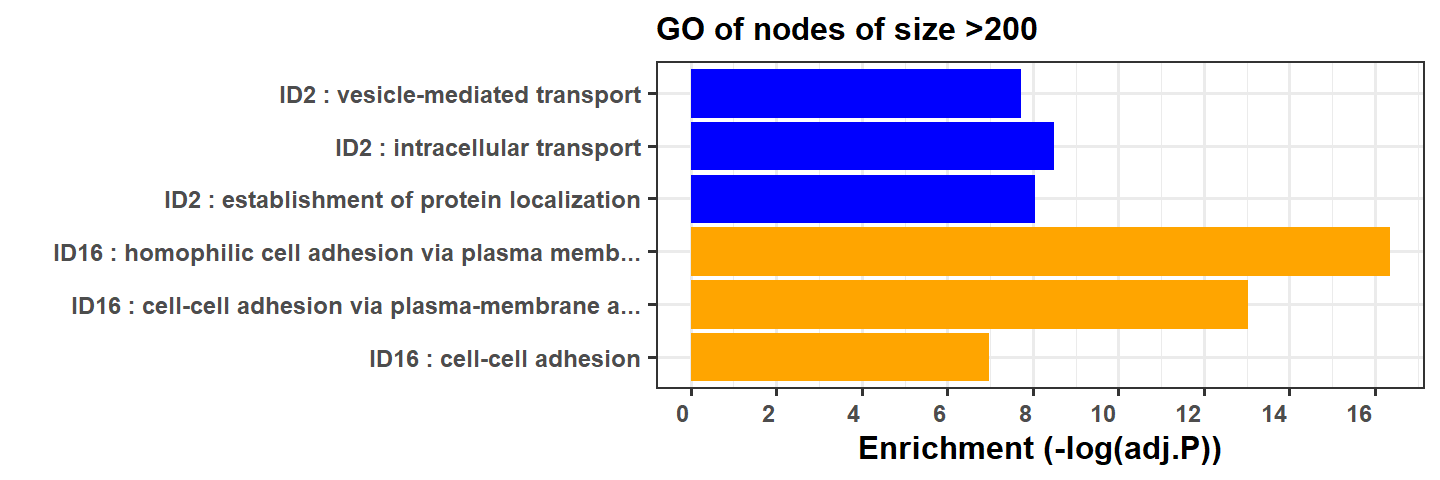
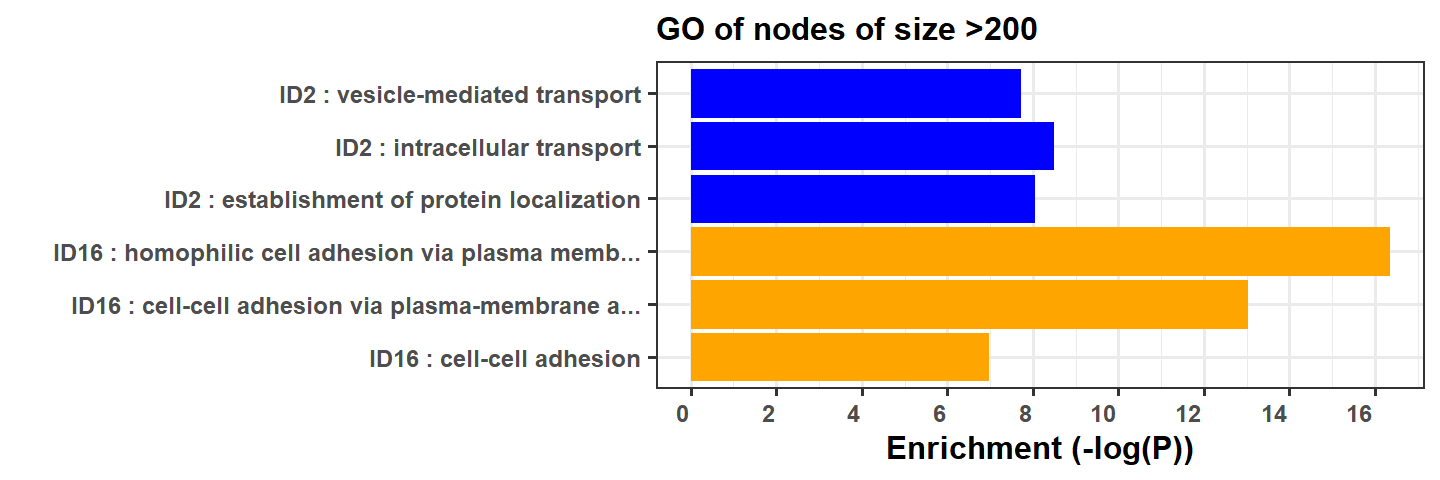
Commit 25/03/22

Changed region(s): [[0.5938, 0.9062, 0.875, 0.9688]]

diff --git a/README.md b/README.md
@@ -137,7 +137,7 @@ gene_groups=deltaTE_gene_groups(counts=counts,coldata=coldata,batch=0)
 Let’s have a look at the gene\_groups file from the example data. It
 consists in 2 columns containing the “geneID” and the “Gene\_group” for
 all the DE genes. This is as an example on fibroblasts stimulated by
-TGFB, if you start with your own gene groups, go to next code line.
+TGFB, when you start with your own gene groups, go to next code line.
 Ideally, the gene groups are obtained from deltaTE analysis but any
 method to find gene groups can also be run.
 
@@ -153,10 +153,10 @@ head(gene_groups)
 #> 6: ENSG00000116649 forwarded_up
 ```
 
-You can input your own gene groups by using the function
-load\_gene\_groups() and giving the file location of your gene group
-file as input. Each gene group must contain “up” or “down” in the name
-or you won’t be able to plot the network and gene ontology.
+To input your own gene groups, use the function load\_gene\_groups() and
+give the file location of your gene group file as input. Each gene group
+must contain “up” or “down” in the name or you won’t be able to plot the
+network and gene ontology.
 
 ``` r
 gene_groups=load_gene_groups(gene_groups_file = "path/to/gene_groups_file.txt")
@@ -233,7 +233,7 @@ head(tpm_ribo[,1:4])
 #> ENSG00000187961  2.228106  3.7949139  3.59028074  3.0119944
 ```
 
-To load your own data use
+To load your own data use:
 
 ``` r
 # If you want to input your own data
@@ -256,8 +256,8 @@ the analysis such as p-value and z-score.
 
 ``` r
 # The CLIPreg function requires a few minutes to run, save the data after running it to be sure not to lose it
-res_Postar=CLIPreg(RBP_data=RBP_POSTAR,gene_groups=gene_groups)
-res_Encode=CLIPreg(RBP_data=RBP_ENCODE,gene_groups=gene_groups)
+res_Postar=CLIPreg(Regulator_data=RBP_POSTAR,gene_groups=gene_groups)
+res_Encode=CLIPreg(Regulator_data=RBP_ENCODE,gene_groups=gene_groups)
 
 save(res_Encode,file="Res_RBP_Encode.RData")
 save(res_Postar,file="Res_RBP_Postar.RData")
@@ -327,7 +327,7 @@ head(rbp_lfc)
 #> FAM120A ENSG00000048828    FAM120A  0.07316692
 #> PUM2    ENSG00000055917       PUM2 -0.09197738
 # Cure res data by removing RBPs that are not in the rbp_lfc dataframe
-res=cure_res(res=res,rbp_lfc=rbp_lfc)
+res=cure_res(res=res,regulators=rbp_lfc)
 head(res[[1]])
 #>       RBP real_overlap simulated_overlap_mean simulated_overlap_sd         z
 #> 6   CELF2          597               673.8591             15.64042 -4.914134
@@ -347,7 +347,7 @@ head(res[[1]])
 
 ### Step 3: Visualisation
 
-Generate and save heatmap to pdf. The heatmap represents the -logP of
+Generate and save heatmap to pdf. The heatmap represents the -logFDR of
 each RBP for each gene group. The blue RBPs are downregulated and the
 orange RBPs are upregulated. Only RBPs with targets that are
 significantly enriched in at least one gene group are shown.
@@ -363,7 +363,7 @@ HeatmapRBP(res=res,rbp_lfc=rbp_lfc)
 ``` r
 
 # If there is not at least 1 positive and 1 negative RBP lfc then use the heatmap for miRNA
-# HeatmapmiRNA(res=res)
+# Heatmap_no_fold_change(res=res)
 ```
 
 Suggestion for saving your heatmap
@@ -398,7 +398,7 @@ containing the RBP of interest
 
 ``` r
 # Draw network of the RBP that are most changing or choose specific RBPs
-Draw_network_by_group(rbp_lfc=rbp_lfc,res=res,Targets=Targets,gene_groups=gene_groups,n=5,forwarded = F)
+Draw_network_by_group(regulators=rbp_lfc,res=res,Targets=Targets,gene_groups=gene_groups,n=5,forwarded = F)
 ```
 
 ![](man/figures/README-Network-1.png)<!-- -->
@@ -410,16 +410,19 @@ Draw_network_by_group(rbp_lfc=rbp_lfc,res=res,Targets=Targets,gene_groups=gene_g
 #                        res=res,Targets=Targets,gene_groups=gene_groups,n=3,forwarded = F)
 ```
 
+Gene ontology can be plotted for specific nodes or RBP. The P-value
+corresponds to Fisher’s exact test p-value.
+
 ``` r
 # plot GO, each plot takes a couple of minutes to generate.
-Plot_GO(rbp_lfc=rbp_lfc,res=res,Targets=Targets,gene_groups=gene_groups,n=5,
+Plot_GO(regulators=rbp_lfc,res=res,Targets=Targets,gene_groups=gene_groups,n=5,
   tpm_ribo = tpm_ribo,th=200,GO_to_show=3,forwarded = F)
 ```
 
 ![](man/figures/README-GO%20of%20specific%20nodes-1.png)<!-- -->
 
 ``` r
-Plot_GO_node_name(rbp_lfc=rbp_lfc,res=res,Targets=Targets,gene_groups=gene_groups,n=5,
+Plot_GO_node_name(regulators=rbp_lfc,res=res,Targets=Targets,gene_groups=gene_groups,n=5,
                   tpm_ribo = tpm_ribo,Nodes_to_keep=c(19,15),GO_to_show=3,forwarded = F)
 ```
 
@@ -438,10 +441,10 @@ an example of the code that is very similar to the steps followed for
 the RBPs.
 
 ``` r
-data("miR_data") # preparation can be found in Pre-processing part of the readme
+data("miR_data") # preparation can be found below in section "Processing of miRNA file"
 data("miR_info")
 data("gene_groups") # for example on fibroblasts
-Targets=GetTarget(RBP_data=miR_data,background=gene_groups$geneID)
+Targets=GetTarget(Regulator_data=miR_data,background=gene_groups$geneID)
 data("ribo_lfc")
 data("tpm_ribo")
 data("tpm_all_RNA")
@@ -458,7 +461,7 @@ details in each gene group.
 
 ``` r
 #This is done on the example set, you can skip to next code for the results
-res_miR=CLIPreg(RBP_data=miR_data,gene_groups=gene_groups) # Takes several minutes
+res_miR=CLIPreg(Regulator_data=miR_data,gene_groups=gene_groups) # Takes several minutes
 save(res_miR,file="Res_miR.RData")
 ```
 
@@ -487,7 +490,7 @@ head(res[[1]])
 A heatmap can be plotted also for miRNA
 
 ``` r
-HeatmapmiRNA(res=res)
+Heatmap_no_fold_change(res=res)
 ```
 
 ![](man/figures/README-Scipt%20for%20miRNA%20heatmap-1.png)<!-- -->
@@ -496,7 +499,7 @@ HeatmapmiRNA(res=res)
 
 
 # Suggestion to save the heatmap 
-# e=HeatmapmiRNA(res=res)
+# e=Heatmap_no_fold_change(res=res)
 # location="Heatmap_HeLa_EGF_miRNA.pdf"
 # n=nrow(e@matrix)
 # pdf(location,length(names(res))+3,3+n*0.15)
@@ -508,7 +511,8 @@ Network and GO plots are also available for miRNA
 
 ``` r
 # Network and GO
-Draw_network_by_group(rbp_lfc=c("hsa-mir-301a","hsa-mir-454","hsa-mir-544a","hsa-mir-106b","hsa-mir-148b"),res=res,Targets=Targets,gene_groups=gene_groups,n=5,forwarded = T)
+# As we don't have fold change for miRNA, you can input miR names in the regulators for the plots.
+Draw_network_by_group(regulators=c("hsa-mir-301a","hsa-mir-454","hsa-mir-544a","hsa-mir-106b","hsa-mir-148b"),res=res,Targets=Targets,gene_groups=gene_groups,n=5,forwarded = T)
 #> Scale for 'size' is already present. Adding another scale for 'size', which
 #> will replace the existing scale.
 #> Scale for 'colour' is already present. Adding another scale for 'colour',
@@ -553,7 +557,7 @@ Plot_GO_RBP(rbp_of_interest="hsa-mir-301a",tpm_ribo = tpm_ribo,Targets=Targets,g
 
 ![](man/figures/README-Scipt%20for%20miRNA%20plots-2.png)<!-- -->
 
-## Another example not using deltaTE
+## Example 2: CLIPreg without using deltaTE
 
 HeLa stimulated by EGF. Groups were obtained by categorizing into TE\_up
 and TE\_down from data given in the paper
@@ -575,8 +579,8 @@ Targets_HeLa=combine_targets(RBP_list1=RBP_ENCODE,RBP_list2=RBP_POSTAR,backgroun
 Run RBP target enrichment.
 
 ``` r
-res_Postar_HeLa=CLIPreg(RBP_data=RBP_POSTAR,gene_groups=gene_groups)
-res_Encode_HeLa=CLIPreg(RBP_data=RBP_ENCODE,gene_groups=gene_groups)
+res_Postar_HeLa=CLIPreg(Regulator_data=RBP_POSTAR,gene_groups=gene_groups)
+res_Encode_HeLa=CLIPreg(Regulator_data=RBP_ENCODE,gene_groups=gene_groups)
 
 save(res_Encode_HeLa,file="Res_Encode_HeLa.RData")
 save(res_Postar_HeLa,file="Res_Postar_HeLa.RData")
@@ -588,20 +592,44 @@ data("Res_Postar_HeLa")
 res_HeLa=CLIPreg::combine(res1=res_Encode_HeLa,res2=res_Postar_HeLa,FDR=0.05)
 
 rbp_lfc=rbp_change(res=res_HeLa,ribo_lfc=ribo_lfc) # None of the RBP are changing
-res=cure_res(res=res_HeLa,rbp_lfc=rbp_lfc)
+res_HeLa=cure_res(res=res_HeLa,regulators=rbp_lfc)
+rbp_lfc
+#>                  geneID IDENTIFIER  FoldChange
+#> FKBP4   ENSG00000004478      FKBP4 -0.14794320
+#> AKAP8L  ENSG00000011243     AKAP8L -0.25094281
+#> FAM120A ENSG00000048828    FAM120A  0.07316692
+#> YBX3    ENSG00000060138       YBX3  0.04605895
+#> DDX24   ENSG00000089737      DDX24 -0.02952209
+#> TIA1    ENSG00000116001       TIA1 -0.17198740
+#> GTF2F1  ENSG00000125651     GTF2F1  0.05483682
+#> ILF3    ENSG00000129351       ILF3 -0.06083720
+#> PPIL4   ENSG00000131013      PPIL4  0.19073440
+#> ZRANB2  ENSG00000132485     ZRANB2  0.18935468
+#> TBRG4   ENSG00000136270      TBRG4 -0.18033802
+#> SLTM    ENSG00000137776       SLTM -0.11829053
+#> LSM11   ENSG00000155858      LSM11  0.26538760
+#> SUPV3L1 ENSG00000156502    SUPV3L1  0.06192888
+#> LARP4   ENSG00000161813      LARP4 -0.15813233
+#> CSTF2T  ENSG00000177613     CSTF2T  0.17996868
+#> EWSR1   ENSG00000182944      EWSR1  0.04042333
+#> PCBP2   ENSG00000197111      PCBP2 -0.06077447
 ```
 
+As we can see, none of the RBP are changing. If you still want to plot
+the heatmap although no RBP are found changing, you can use the
+Heatmap\_no\_fold\_change function which doesn’t require regulators.
+
 ``` r
-HeatmapmiRNA(res=res) # The RBP are not changing --> need to use the miRNA heatmap
+Heatmap_no_fold_change(res=res_HeLa) # The RBP are not changing --> need to use the miRNA heatmap
 ```
 
 ![](man/figures/README-plots%20HeLa%20RBP-1.png)<!-- -->
 
-Not enoughs RBP are significant with enough targets to give any meaning
+Not enough RBP are significant with enough targets to give any meaning
 to the network and gene ontology plot
 
 ``` r
-# Draw_network_by_group(rbp_lfc=c("GRWD1","GRSF1","SUGP2","DHX30","LSM11"),res=res,Targets=Targets_HeLa,gene_groups=gene_groups,n=5,forwarded = F)
+# Draw_network_by_group(regulators=c("GRWD1","GRSF1","SUGP2","DHX30","LSM11"),res=res,Targets=Targets_HeLa,gene_groups=gene_groups,n=5,forwarded = F)
 # Plot_GO_RBP(rbp_of_interest="GRWD1",tpm_ribo = tpm_ribo,Targets=Targets_HeLa,gene_groups=gene_groups,GO_to_show=3)
 ```
 
@@ -623,13 +651,13 @@ tpm_all_RNA=tpm_all_RNA[rowSums(tpm_all_RNA > 1) >= 1, ]
 miR_info=miR_info[miR_info$ensembl_gene_id%in%rownames(tpm_all_RNA),]
 miR_data=subset(miR_data,names(miR_data)%in%miR_info$mirbase_id)
 
-res_miR=CLIPreg(RBP_data=miR_data,gene_groups=gene_groups)
+res_miR=CLIPreg(Regulator_data=miR_data,gene_groups=gene_groups)
 save(res_miR,file="Res_miR_HeLa_EGF.RData")
 res=CLIPreg::combine(res1=res_miR,res2=res_miR,FDR=0.05)
 
-HeatmapmiRNA(res=res) # The RBP are not changing --> need to use the miRNA heatmap
-Targets=GetTarget(RBP_data=miR_data,background=gene_groups$geneID)
-Draw_network_by_group(rbp_lfc=c("hsa-mir-652","hsa-mir-499a","hsa-mir-99b","hsa-mir-875","hsa-mir-501"),res=res,Targets=Targets,gene_groups=gene_groups,n=5,forwarded = F)
+Heatmap_no_fold_change(res=res) # need to use the Heatmap_no_fold_change
+Targets=GetTarget(Regulator_data=miR_data,background=gene_groups$geneID)
+Draw_network_by_group(regulators=c("hsa-mir-652","hsa-mir-499a","hsa-mir-99b","hsa-mir-875","hsa-mir-501"),res=res,Targets=Targets,gene_groups=gene_groups,n=5,forwarded = F)
 Plot_GO_RBP(rbp_of_interest="hsa-mir-501",tpm_ribo=tpm_ribo,Targets=Targets,gene_groups=gene_groups,
             GO_to_show=3)
 ```
@@ -643,6 +671,23 @@ Plot_GO_RBP(rbp_of_interest="hsa-mir-501",tpm_ribo=tpm_ribo,Targets=Targets,gene
 
 # Processing of CLIPseq summary files
 
+data("Example_bed")
+Example_bed
+#>   chrom chromStart  chromEnd                                       name score
+#> 1 chr10  100000152 100000166  human_RBP_CLIPdb_PAR-CLIP_PARalyzer194179     0
+#> 2 chr10  100000152 100000166  human_RBP_CLIPdb_PAR-CLIP_PARalyzer628883     0
+#> 3 chr10  100000152 100000167 human_RBP_CLIPdb_PAR-CLIP_PARalyzer5906935     0
+#> 4 chr10  100000152 100000167 human_RBP_CLIPdb_PAR-CLIP_PARalyzer6193374     0
+#> 5 chr10  100000156 100000168 human_RBP_CLIPdb_PAR-CLIP_PARalyzer2957449     0
+#> 6 chr10  100000156 100000168 human_RBP_CLIPdb_PAR-CLIP_PARalyzer3234693     0
+#>   strand thickStart           thickEnd itemRgb          blockCount blockSizes
+#> 1      +     HNRNPC PAR-CLIP,PARalyzer HEK293T GSE56010,GSM1350196  0.7479220
+#> 2      +     HNRNPC PAR-CLIP,PARalyzer HEK293T GSE56010,GSM1350196  0.7479220
+#> 3      +     HNRNPC PAR-CLIP,PARalyzer HEK293T GSE56010,GSM1350200  0.5935826
+#> 4      +     HNRNPC PAR-CLIP,PARalyzer HEK293T GSE56010,GSM1350200  0.5935826
+#> 5      +     HNRNPC PAR-CLIP,PARalyzer HEK293T GSE56010,GSM1350198  0.6989123
+#> 6      +     HNRNPC PAR-CLIP,PARalyzer HEK293T GSE56010,GSM1350198  0.6989123
+
 # Step 1 : Download all RBP clip-seq bed files from encode and combine them into 1 be
 # Step 2 : Filter to keep high score peaks only. >8fold enrichment and P value <10e-5
 # Step 3 : Intersect bed file with Ensembl genes gtf file to find target genes
@@ -650,6 +695,36 @@ Plot_GO_RBP(rbp_of_interest="hsa-mir-501",tpm_ribo=tpm_ribo,Targets=Targets,gene
 
 # For Postar data, download from POSTAR3 website CLIPdb
 # Start from step3 of ENCODE
+
+# The RBP_data format, obtained after processing the bed file, needs to be a list of RBPs with each RBP containing a vector of target geneIDs. For Example :
+data("RBP_ENCODE")
+RBP_ENCODE[c("POLR2G","PPIL4","SBDS")]
+#> $POLR2G
+#>  [1] "ENSG00000150527" "ENSG00000258941" "ENSG00000124782" "ENSG00000096063"
+#>  [5] "ENSG00000152767" "ENSG00000078403" "ENSG00000105220" "ENSG00000178764"
+#>  [9] "ENSG00000104419" "ENSG00000157933" "ENSG00000116285" "ENSG00000117394"
+#> [13] "ENSG00000162337" "ENSG00000112715" "ENSG00000049618" "ENSG00000141526"
+#> [17] "ENSG00000184640" "ENSG00000183255" "ENSG00000114268" "ENSG00000174485"
+#> [21] "ENSG00000157985" "ENSG00000163811" "ENSG00000157827" "ENSG00000198648"
+#> [25] "ENSG00000134318" "ENSG00000176171" "ENSG00000155034" "ENSG00000136478"
+#> [29] "ENSG00000074047" "ENSG00000176853" "ENSG00000144366" "ENSG00000115295"
+#> 
+#> $PPIL4
+#>  [1] "ENSG00000106415" "ENSG00000169122" "ENSG00000153317" "ENSG00000029534"
+#>  [5] "ENSG00000197965" "ENSG00000151414" "ENSG00000185420" "ENSG00000014216"
+#>  [9] "ENSG00000144674" "ENSG00000198431" "ENSG00000164117" "ENSG00000170242"
+#> [13] "ENSG00000106034" "ENSG00000009954" "ENSG00000078304" "ENSG00000105220"
+#> [17] "ENSG00000078674" "ENSG00000147454" "ENSG00000156467" "ENSG00000257315"
+#> [21] "ENSG00000153187" "ENSG00000143401" "ENSG00000124942" "ENSG00000131747"
+#> [25] "ENSG00000089280" "ENSG00000119231" "ENSG00000174485" "ENSG00000164104"
+#> [29] "ENSG00000151466" "ENSG00000143797" "ENSG00000115310" "ENSG00000126883"
+#> [33] "ENSG00000183087" "ENSG00000075407" "ENSG00000054277" "ENSG00000112531"
+#> [37] "ENSG00000188994" "ENSG00000172432" "ENSG00000173926" "ENSG00000113013"
+#> 
+#> $SBDS
+#> [1] "ENSG00000136574" "ENSG00000101558" "ENSG00000171310" "ENSG00000182326"
+#> [5] "ENSG00000124486" "ENSG00000109971" "ENSG00000111678" "ENSG00000102265"
+#> [9] "ENSG00000166224"
 ```
 
 ### Processing of miRNA file
@@ -711,10 +786,10 @@ miR_info$mirbase_id=tolower(miR_info$mirbase_id)
 save(miR_info,file = "data/miR_info.RData")
 ```
 
-### HeLa stimulated by EGF data preparation
+### Example 2: Data pre-processing without using deltaTE
 
-The csv files used for pre-processing can be found in the example folder
-of CLIPreg’s github page.
+The csv files used for pre-processing can be found in the “Example”
+folder of CLIPreg’s github page.
 
 ``` r
 BiocManager::install("biomaRt")
